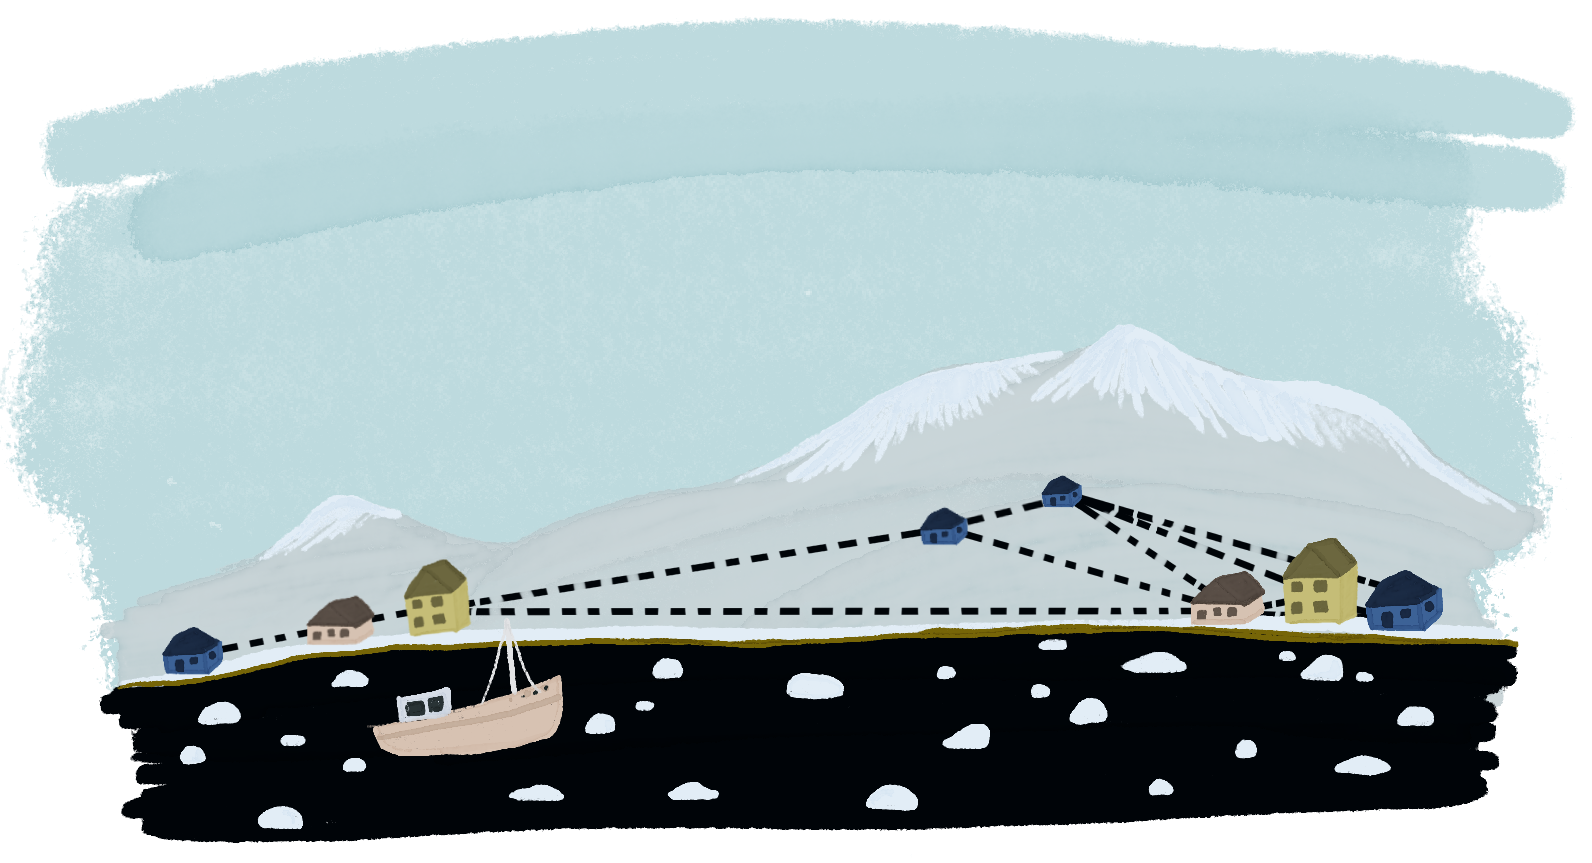
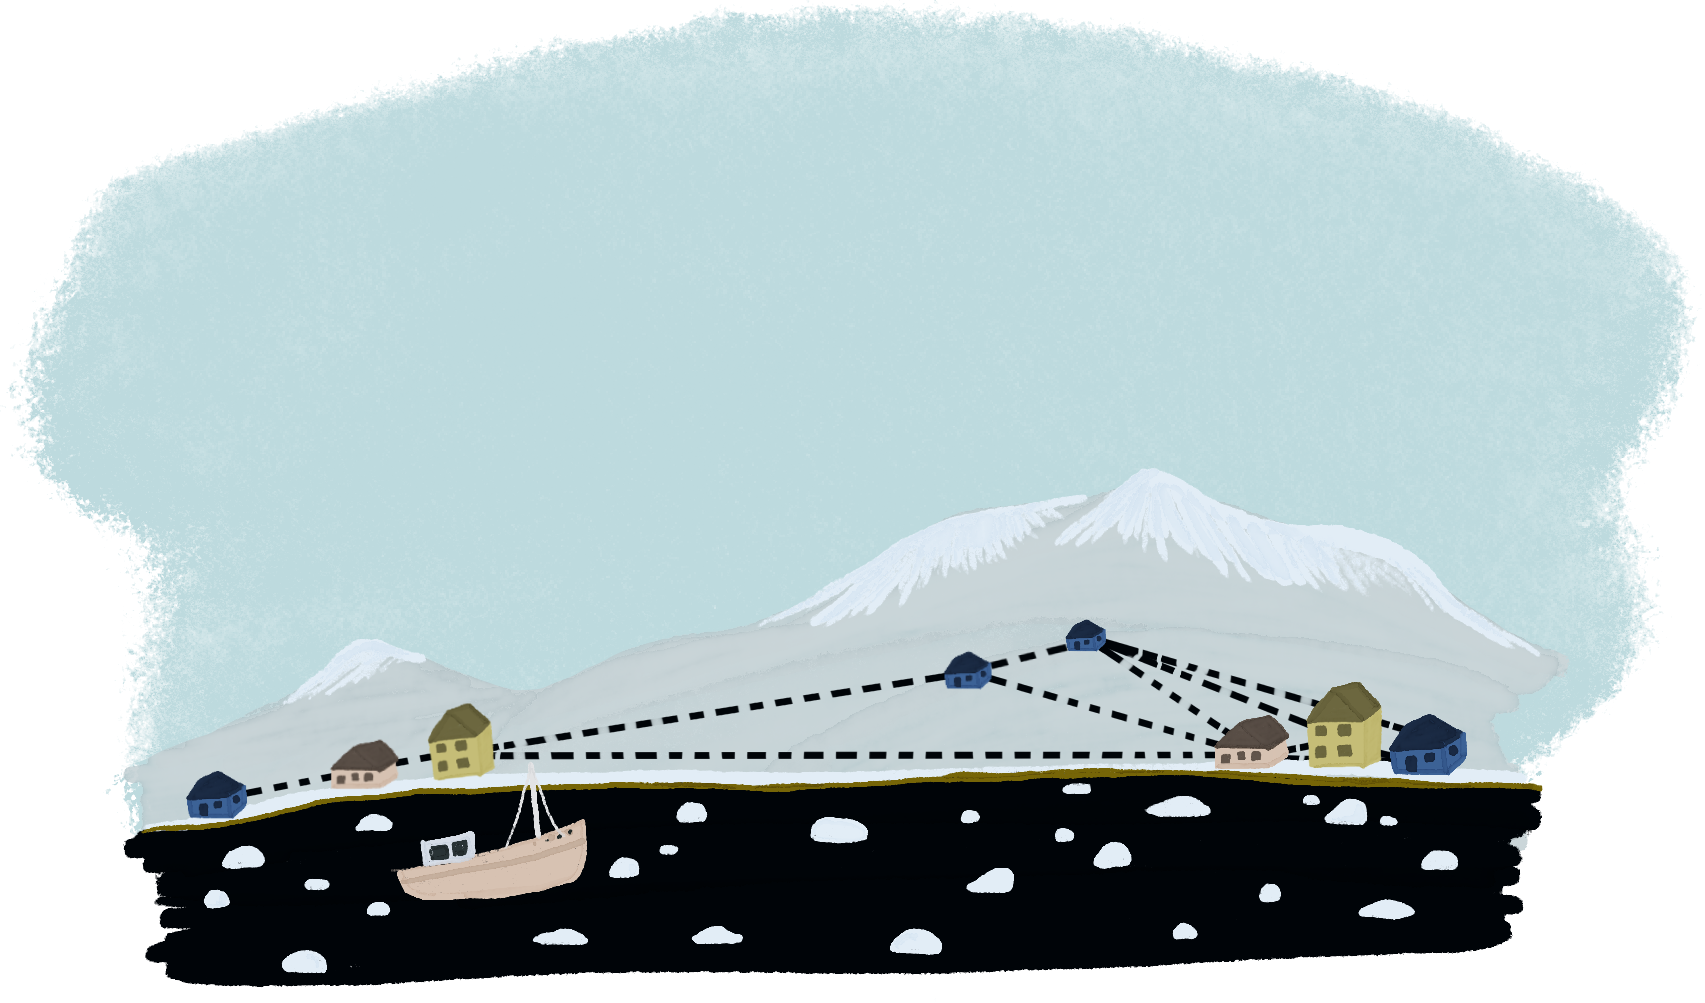
styling changes

Changed region(s): [[0.0, 0.0301, 1.0, 0.9942], [0.4001, 0.0, 0.6156, 0.0301], [0.7387, 0.8737, 0.7695, 0.9038]]

diff --git a/sketch.js b/sketch.js
@@ -1,15 +1,7 @@
 
-// Check if user is at the top of the page
-function isAtTop() {
-    if(window.scrollY==0){
-        document.getElementById("graphic-1").classList.remove("img-fade");
-    } else {
-        checkElementsInView();
-    }
-}
-
 // Scrolling functionality
 function elementInViewport(el) {
+    // console.log(document.scrollingElement.scrollTop)
     var top = el.offsetTop;
     var left = el.offsetLeft;
     var width = el.offsetWidth;
@@ -30,13 +22,14 @@ function elementInViewport(el) {
 }
 
 function checkElementsInView() {
+    var directions = document.getElementById("directions");
     var element1 = document.getElementById("text-1");
     var element2 = document.getElementById("text-2");
     var element3 = document.getElementById("text-3");
     var element4 = document.getElementById("text-4");
     var elementEnd = document.getElementById("text-end");
 
-    if (elementInViewport(element1)) {
+    if (elementInViewport(directions) || elementInViewport(element1)) {
         document.getElementById("graphic-1").classList.remove("img-fade");
         document.getElementById("graphic-2").classList.add("img-fade");
     }
@@ -69,12 +62,12 @@ function checkElementsInView() {
         document.getElementById("graphic-4").classList.add("img-fade");
     }
 
-    // else {
-    //     document.getElementById("graphic-1").classList.add("img-fade");
-    //     document.getElementById("graphic-2").classList.add("img-fade");
-    //     document.getElementById("graphic-3").classList.add("img-fade");
-    //     document.getElementById("graphic-4").classList.add("img-fade");
-    // }
+    else {
+        document.getElementById("graphic-1").classList.add("img-fade");
+        document.getElementById("graphic-2").classList.add("img-fade");
+        document.getElementById("graphic-3").classList.add("img-fade");
+        document.getElementById("graphic-4").classList.add("img-fade");
+    }
 }
 
 
@@ -115,7 +108,7 @@ var myFunction = function(elem) {
     	elem.parentElement.previousElementSibling.classList.add("hide");
     }
 
-    nextDecisionElem.scrollIntoView({behavior: "smooth", block: "start", inline: "nearest"});
+    nextDecisionElem.scrollIntoView({behavior: "smooth", block: "center", inline: "nearest"});
 };
 
 for (var i = 0; i < processElements.length; i++) {
@@ -131,5 +124,5 @@ function start() {
 	document.getElementById("start").classList.add("fade");
 	document.getElementById("start").classList.add("no-hover");
 
-    document.getElementById("start").nextElementSibling.scrollIntoView({behavior: "smooth", block: "start", inline: "nearest"});
+    document.getElementById("start").nextElementSibling.scrollIntoView({behavior: "smooth", block: "center", inline: "nearest"});
 }

diff --git a/index.html b/index.html
@@ -4,23 +4,23 @@
   <title></title>
   <link rel="stylesheet" type="text/css" href="style.css">
 </head>
-<body onscroll="checkElementsInView()" onload="isAtTop()">
+<body onscroll="checkElementsInView()">
 
-  <div class="title">
-    <h1>'I Was Put On A List': How Iceland's Contact Tracing Kept Its Infections Low</h1>
+  <div class="title" id="title">
+    <h1>'I Was Put On A List': How Iceland's Closely Monitored Contact Tracing Kept Its Outbreaks Under Control</h1>
     <p>Life in Iceland has remained relatively normal during the COVID-19 pandemic. The Department of Public Safety keeps strict tabs on citizens who test positive for the virus and those who <i>might</i>, leading to very managed minor outbreaks.</p>
   </div>
 
   <img class="hero-img" src="iceland_contact_tracing.png" width="90%">
 
   <div class="body" style="margin-top: 100px; margin-bottom: 100px;">
-    <p>Scroll down to follow one person's story interacting with this system.</p>
+    <p id="directions">Scroll down to follow one person's story interacting with this system.</p>
   </div>
 
   <div class="scroll-container">
     <div class="scroll-graphics">
 
-      <figure id="graphic-1">
+      <figure id="graphic-1" class="img-fade">
         <img src="man_smiling.png" width="70%">
       </figure>
 
@@ -36,6 +36,8 @@
         <img src="health.png" width="70%">
       </figure>
     </div>
+
+    <div style="height:500px">  </div>
 
     <div class="scroll-text">
 
@@ -216,6 +218,12 @@
   </ul>
 
   <button id="restart" class="hide" onclick="refresh()">Restart</button>
+
+  <footer>
+    <div>
+      <p>Content, illustrations and development by Chloe Langston.</p>
+    </div>
+  </footer>
 
   <script type="text/javascript" src="sketch.js"></script>
 </body>

diff --git a/style.css b/style.css
@@ -13,6 +13,23 @@ html {
   color: #000408;
 }
 
+body {
+  height: auto;
+}
+
+footer {
+  margin-top: 500px;
+  width: 100%;
+  height: 40px;
+  text-align: center;
+}
+
+@media screen and (max-width: @screen-sm-max) {
+    html, body {
+        overflow: auto !important;
+    }
+}
+
 .flow-decision-tree {
   box-sizing: border-box;
   outline: none;
@@ -188,10 +205,6 @@ html {
   display: none !important;
 }
 
-.img-fade {
-  display: none !important;
-  opacity: 0;
-}
 
 .title, .body {
   text-align: center;
@@ -202,7 +215,7 @@ html {
   width: 40%;
   position: absolute;
   left: 50%;
-  top: 100px;
+  top: 110px;
 }
 
 .title h1, .title p {
@@ -215,7 +228,7 @@ html {
 }
 
 .hero-img {
-  margin: 50px auto 50px auto;
+  margin: 30px auto 50px auto;
   display: block;
 }
 
@@ -233,11 +246,24 @@ html {
   margin: auto;
 }
 
+.img-fade {
+  /*display: none !important;*/
+  height: 0;
+  opacity: 0 !important;
+}
+
+.scroll-graphics figure {
+  transition: opacity 1s ease-in-out;
+  opacity: 1;
+  height: auto;
+}
+
 .scroll-graphics img {
   display: block;
-  margin: 0px auto;
-  opacity: 1;
-  animation: fade 3s;
+  position: relative;
+  position: absolute;
+  margin-left: 50%;
+  transform: translateX(-50%);
 }
 
 @keyframes fade {
@@ -251,7 +277,7 @@ html {
 }
 
 .scroll-text div {
-  margin: 500px auto;
+  margin: 600px auto;
   width: 400px;
 }
 
@@ -262,7 +288,7 @@ html {
 }
 
 #text-1 {
-  margin-top: 200px;
+  margin-top: 100px;
 }
 
 #text-4 {
